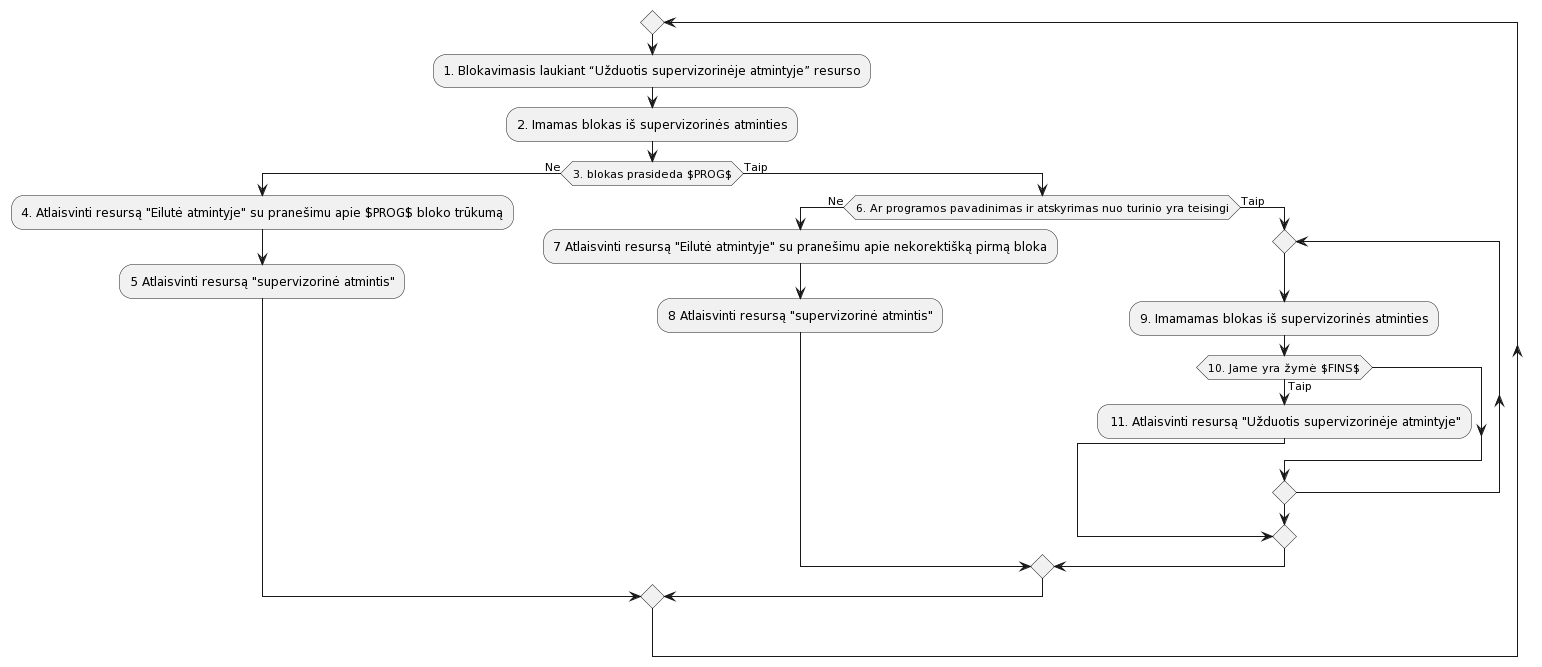
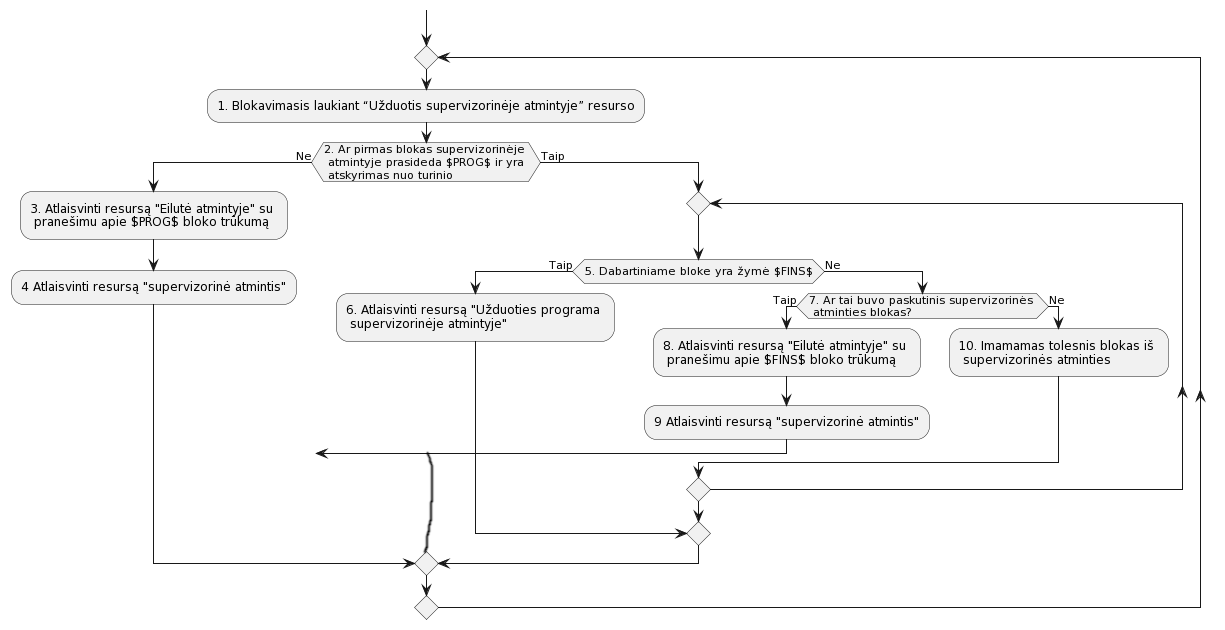
implemented-JCL

diff --git a/kodas2/src/RealMachineComponents/RealMachine.java b/kodas2/src/RealMachineComponents/RealMachine.java
@@ -45,8 +45,7 @@ public class RealMachine {
         fileSystem = new FileSystem(externalMemory);
     }
 
-    public RegisterContainer containerOfRegisters()
-    {
+    public RegisterContainer containerOfRegisters() {
         return new RegisterContainer(R1, R2, R3, FLAGS, IC, CS, DS, SI, PI);
     }
 
@@ -75,11 +74,14 @@ public class RealMachine {
         }
     }
 
-    public void copyProgramToSupervisorMemory(String programName) throws OSException
-    {
-        int startInExternal = fileSystem.findProgramStartWordNumber(programName);
+    public boolean isProgramHeaderCorrect() {
+        return Conversion.characterArrayToString(machineMemory.getWord(0)).equals("$PROG$") &&
+                Conversion.characterArrayToString(machineMemory.getWord(2)).equals("------");
+    }
+
+    public void copyProgramToSupervisorMemory(String programName) throws OSException {
+        int startInExternal = fileSystem.findFirstFileHeaderWord(programName); // 3 are subtracted for "------", programName, "$PROG$"
         if (startInExternal == -1) {
-            pagingMechanism.freeVirtualMachinePages();
             throw new ProgramNotFoundException("");
         }
         int fileStartBlock = startInExternal / Constants.blockLengthInWords;
@@ -111,6 +113,17 @@ public class RealMachine {
                 break;
             }
         }
+    }
+
+    public boolean checkForFins(int blockNum) {
+        int firstWord = blockNum * Constants.blockLengthInWords;
+        int lastWord = (blockNum + 1) * Constants.blockLengthInWords - 1;
+        for (int i = firstWord; i <= lastWord; i++) {
+            if (Conversion.characterArrayToString(machineMemory.getWord(i)).equals("$FINS$")) {
+                return true;
+            }
+        }
+        return false;
     }
 
     public void load(String programName) throws OSException {
@@ -418,7 +431,7 @@ public class RealMachine {
                     handler.addBytes(length);
                     int wordDiff = handler.wordPoz - prevWord;
                     int startedOffset = (prevByte == 0) ? 0 : 1;
-                    for(int i = 0; i < wordDiff; i++){
+                    for (int i = 0; i < wordDiff; i++) {
                         externalMemory.setWordAndShift(prevWord + startedOffset, Conversion.stringToCharacterArray("      "));
                     }
                     channelMechanism.exchange();
@@ -467,7 +480,7 @@ public class RealMachine {
             } else if (SI.value() == SIValues.DeleteFile) {
                 int fileNumber = R2.value();
                 FileHandler handler = fileSystem.fileHandlerByNumber(fileNumber);
-                if(handler != null){
+                if (handler != null) {
                     int fileStartWord = handler.fileStartPoz();
                     int fileEndWord = fileSystem.findFileEndWord(fileStartWord);
                     int lengthInWords = fileEndWord - fileStartWord + 1;
@@ -476,8 +489,7 @@ public class RealMachine {
                         lengthInWords--;
                     }
                     fileSystem.closeFile(fileNumber);
-                }
-                else{
+                } else {
                     R2.setValue(0);
                 }
 
@@ -524,14 +536,13 @@ public class RealMachine {
         while (true) {
             vm.execute();
             TI.setValue(TI.value() - 1);
-            if (interruptHandler.test())
-                {
-                    MODE = true;
-                    if (interruptHandling() == 1) {
-                        break;
-                    }
-                    MODE = false;
+            if (interruptHandler.test()) {
+                MODE = true;
+                if (interruptHandling() == 1) {
+                    break;
                 }
+                MODE = false;
+            }
         }
         pagingMechanism.freeVirtualMachinePages();
         this.vm = null;

diff --git a/kodas2/src/Processes/JCL.java b/kodas2/src/Processes/JCL.java
@@ -1,13 +1,76 @@
 package Processes;
 
+import Constants.Constants;
+import Resources.Resource;
+import Resources.ResourceNames;
 import Utils.Kernel;
 
 public class JCL extends Process {
+    int curBlock = 0;
+    final int firstBlock = 0;
+
     JCL(Kernel kernel) {
         super(kernel);
     }
 
     public void run() {
-
+        switch (state) {
+            case 1:
+                kernel.waitResource(ResourceNames.TaskInSupervisorMemory);
+                state = 2;
+                break;
+            case 2:
+                if (kernel.realMachine.isProgramHeaderCorrect()) {
+                    state = 5;
+                    curBlock = firstBlock;
+                } else {
+                    state = 3;
+                }
+                break;
+            case 3:
+                Resource lineInMemory = kernel.getResource(ResourceNames.LineInMemory);
+                String lineWrongHeader = "incorrect header of program";
+                lineInMemory.addElement(lineWrongHeader);
+                kernel.releaseResource(ResourceNames.LineInMemory);
+                state = 4;
+                break;
+            case 4:
+                kernel.releaseResource(ResourceNames.SupervisorMemory);
+                state = 1;
+                break;
+            case 5:
+                if (kernel.realMachine.checkForFins(curBlock)) {
+                    state = 6;
+                } else {
+                    state = 7;
+                }
+                break;
+            case 6:
+                kernel.releaseResource(ResourceNames.TaskProgramInSupervisorMemory);
+                state = 1;
+                break;
+            case 7:
+                if (curBlock + 1 == Constants.numberOfSupervisorBLocks) {
+                    state = 8;
+                } else {
+                    state = 10;
+                }
+                break;
+            case 8:
+                Resource lim = kernel.getResource(ResourceNames.LineInMemory);
+                String lineNoFins = "Program doesn't have $FINS block";
+                lim.addElement(lineNoFins);
+                kernel.releaseResource(ResourceNames.LineInMemory);
+                state = 9;
+                break;
+            case 9:
+                kernel.releaseResource(ResourceNames.SupervisorMemory);
+                state = 1;
+                break;
+            case 10:
+                curBlock++;
+                state = 5;
+                break;
+        }
     }
 }

diff --git a/kodas2/src/Utils/Kernel.java b/kodas2/src/Utils/Kernel.java
@@ -116,10 +116,15 @@ public class Kernel {
     }
 
     public void waitResource(int resourceName) {
+        waitResource(resourceName, 1);
+    }
+
+    public void waitResource(int resourceName, int count)
+    {
         Resource selectedResource = selectResource(resourceName);
         assert (selectedResource != null);
         Logging.logProcessWaitsResource(activeProcess, selectedResource);
-        boolean hasEnough = selectedResource.waitResource(activeProcess);
+        boolean hasEnough = selectedResource.waitResource(activeProcess, count);
         if (!hasEnough) {
             activeProcess.saveRegisters();
             blockedProcess.add(activeProcess);
@@ -139,6 +144,8 @@ public class Kernel {
             readyProcesses.add(released);
         }
     }
+
+
 
     public boolean someoneWaitsResource(int resourceName) {
         Resource resource = selectResource(resourceName);

diff --git a/kodas2/src/RealMachineComponents/FileSystem.java b/kodas2/src/RealMachineComponents/FileSystem.java
@@ -138,5 +138,19 @@ public class FileSystem {
         return findFirstFileContentWord("$PROG$", programName);
     }
 
+    public int findFirstFileHeaderWord(String programName) {
+        for (int i = 0; i + 1 < Constants.externalMemoryLengthInWords; i++) {
+            Character[] characters = externalMemory.getWord(i);
+            if (Arrays.equals(characters, Conversion.stringToCharacterArray("$PROG$"))) {
+                Character[] nextCharacters = externalMemory.getWord(i + 1);
+                if (Conversion.characterArrayToString(nextCharacters).equals(programName)) {
+                    return i;
+                } else {
+                    i++;
+                }
+            }
+        }
+        return -1;
+    }
 
 }

diff --git a/aprasymas2/projektas2.tex b/aprasymas2/projektas2.tex
@@ -168,7 +168,7 @@ JCL paskirtis - patikrinti perkeltos programos korektiškumą.
 
 \begin{figure}[H]
 	\centering	
-	\includegraphics[scale=0.3]{img/JCL}
+	\includegraphics[scale=1.5]{img/JCL}
 	\caption{Proceso JCL diagrama}   % Antraštė įterpiama po paveikslėlio
 	\label{img:JCL}
 \end{figure}

diff --git a/kodas2/src/Processes/ReadFromInterface.java b/kodas2/src/Processes/ReadFromInterface.java
@@ -1,5 +1,6 @@
 package Processes;
 
+import Constants.Constants;
 import RealMachineComponents.UserInput;
 import Resources.Resource;
 import Resources.ResourceNames;
